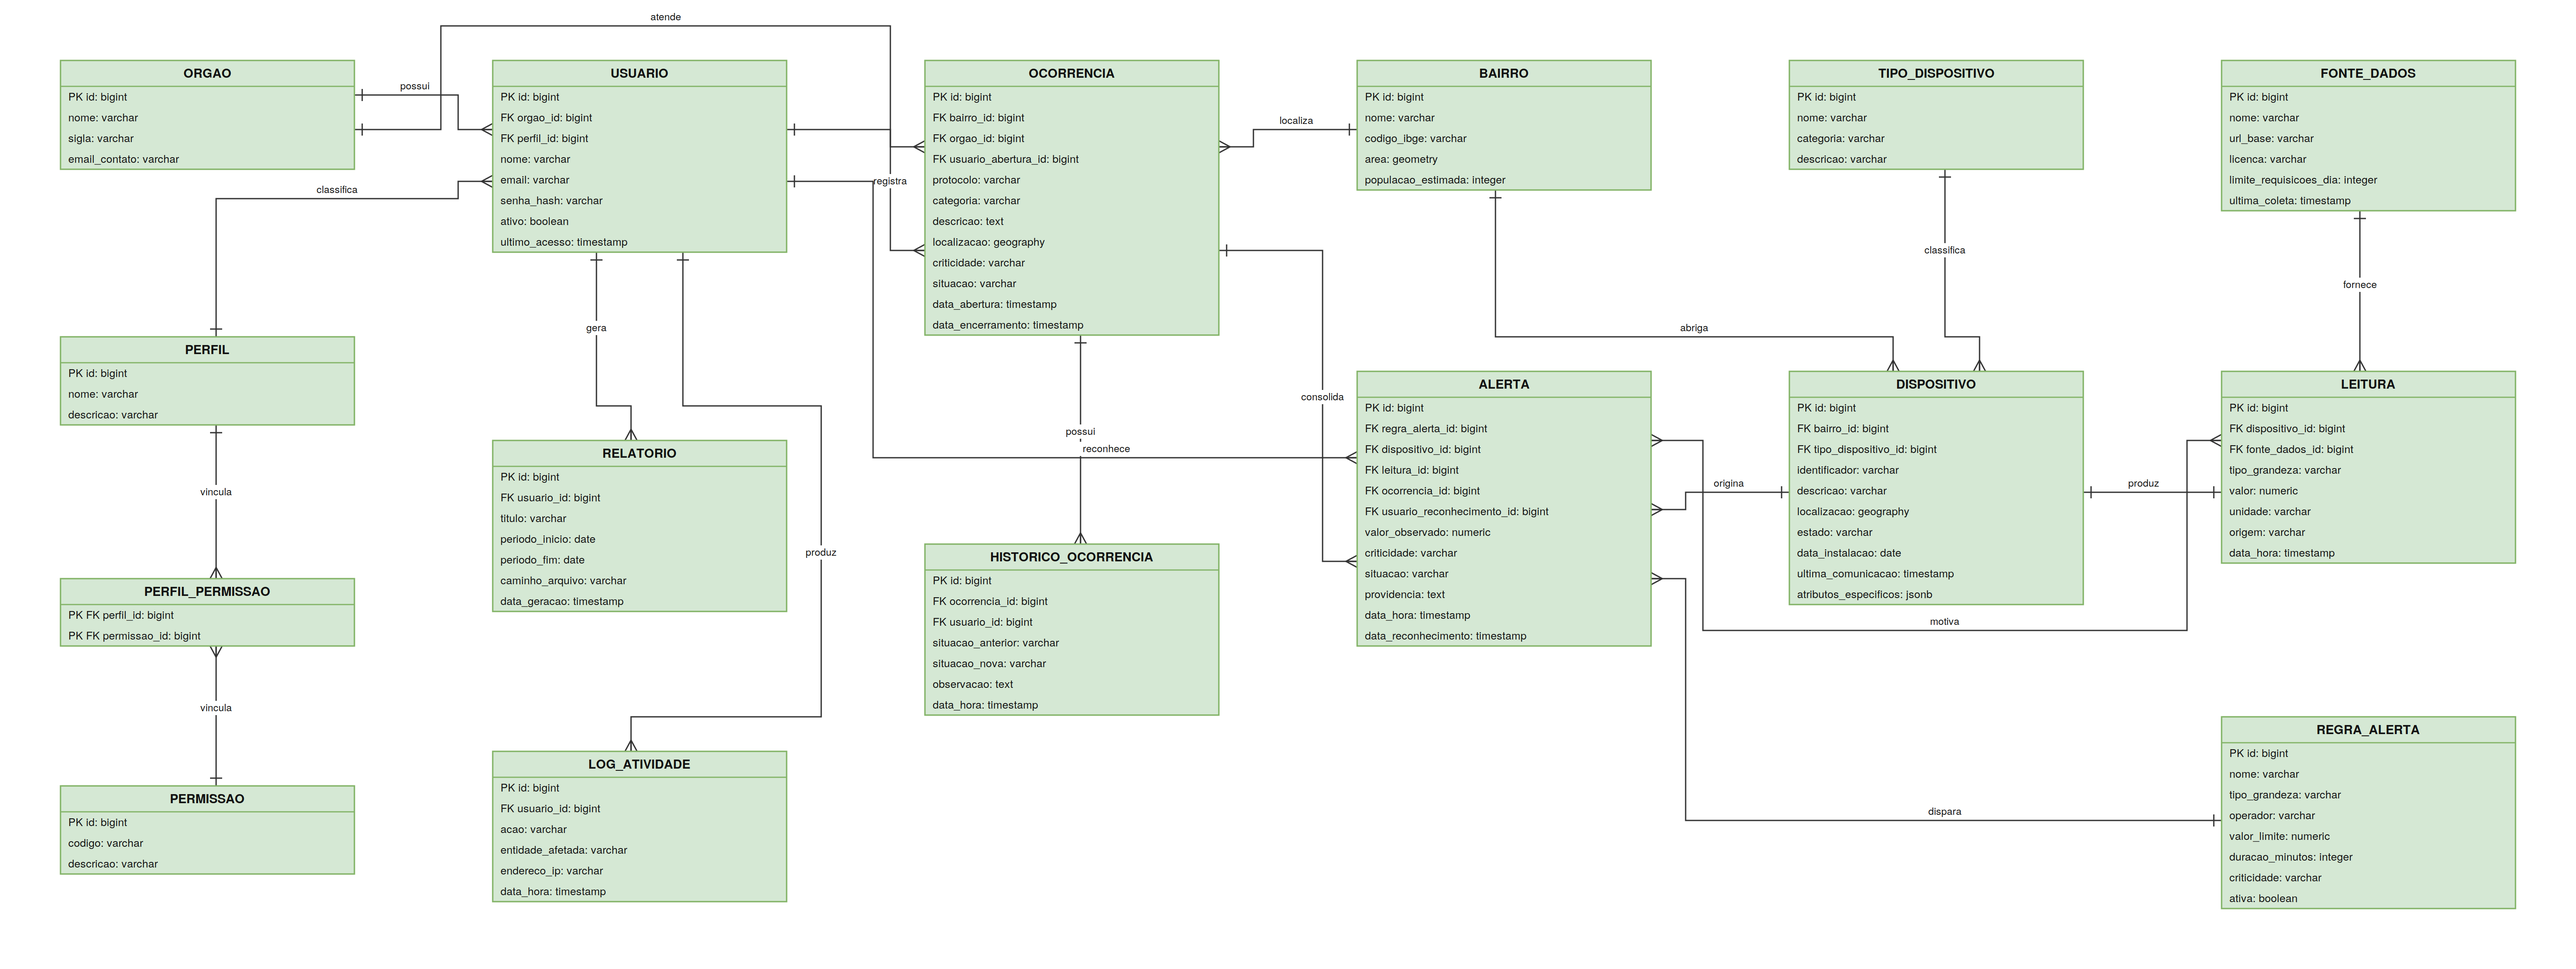
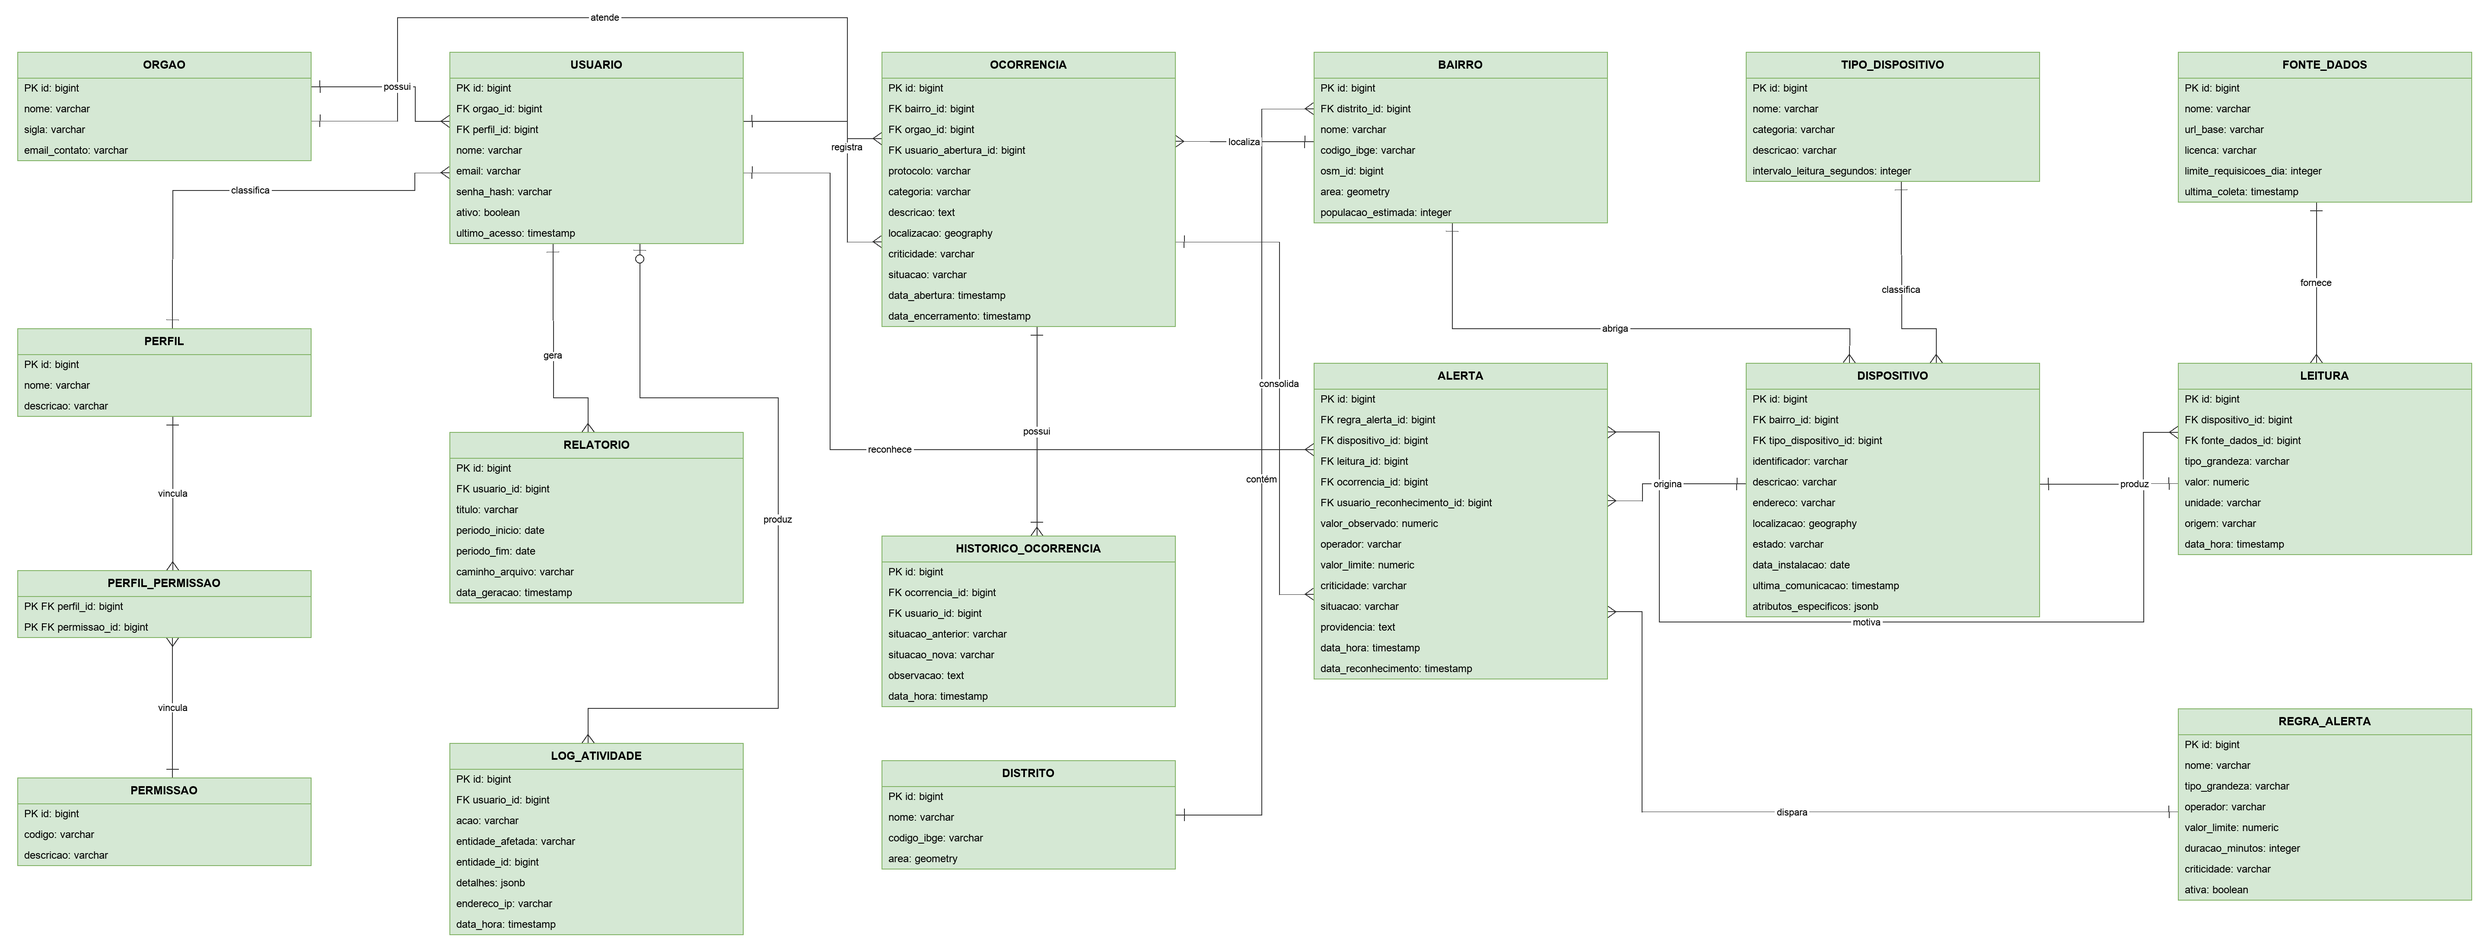
docs: regenera o DER com as mudanças de esquema da Sprint 4

diff --git a/docs/decisoes/2026-10-20-ajustes-der-sprint-4.md b/docs/decisoes/2026-10-20-ajustes-der-sprint-4.md
@@ -33,5 +33,8 @@ Detalhes de implementação, sem mudança de significado em relação ao DER:
 
 ## Consequências
 
-O DER em `.drawio` e `.png` é regenerado com estas tabelas e colunas antes do fim da Sprint 4,
-conforme a Definition of Done.
+O DER em `.drawio` e `.png` foi regenerado em 22/10/2026 com estas tabelas e colunas, conforme a
+Definition of Done. Entraram também `tipo_dispositivo.intervalo_leitura_segundos`
+(`2026-10-22-situacao-sem-comunicacao.md`), a ligação DISTRITO–BAIRRO e o usuário opcional na
+ligação USUARIO–LOG_ATIVIDADE. O layout anterior foi mantido; DISTRITO fica abaixo de
+HISTORICO_OCORRENCIA.
